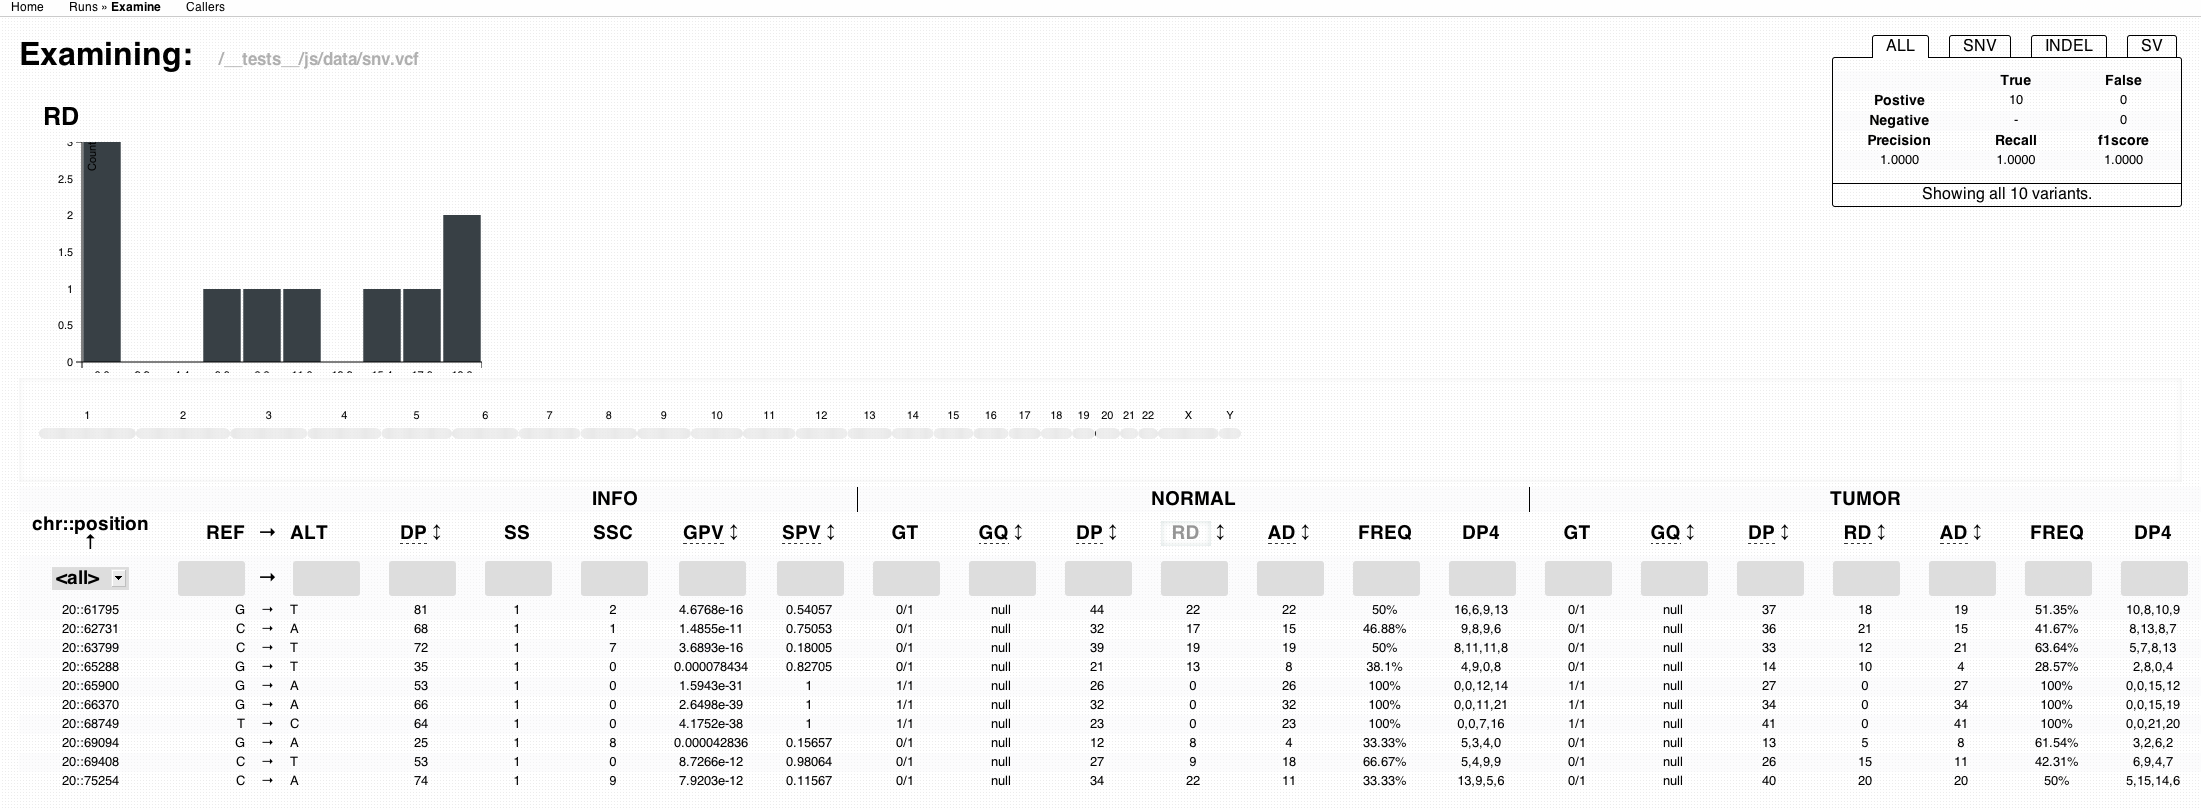
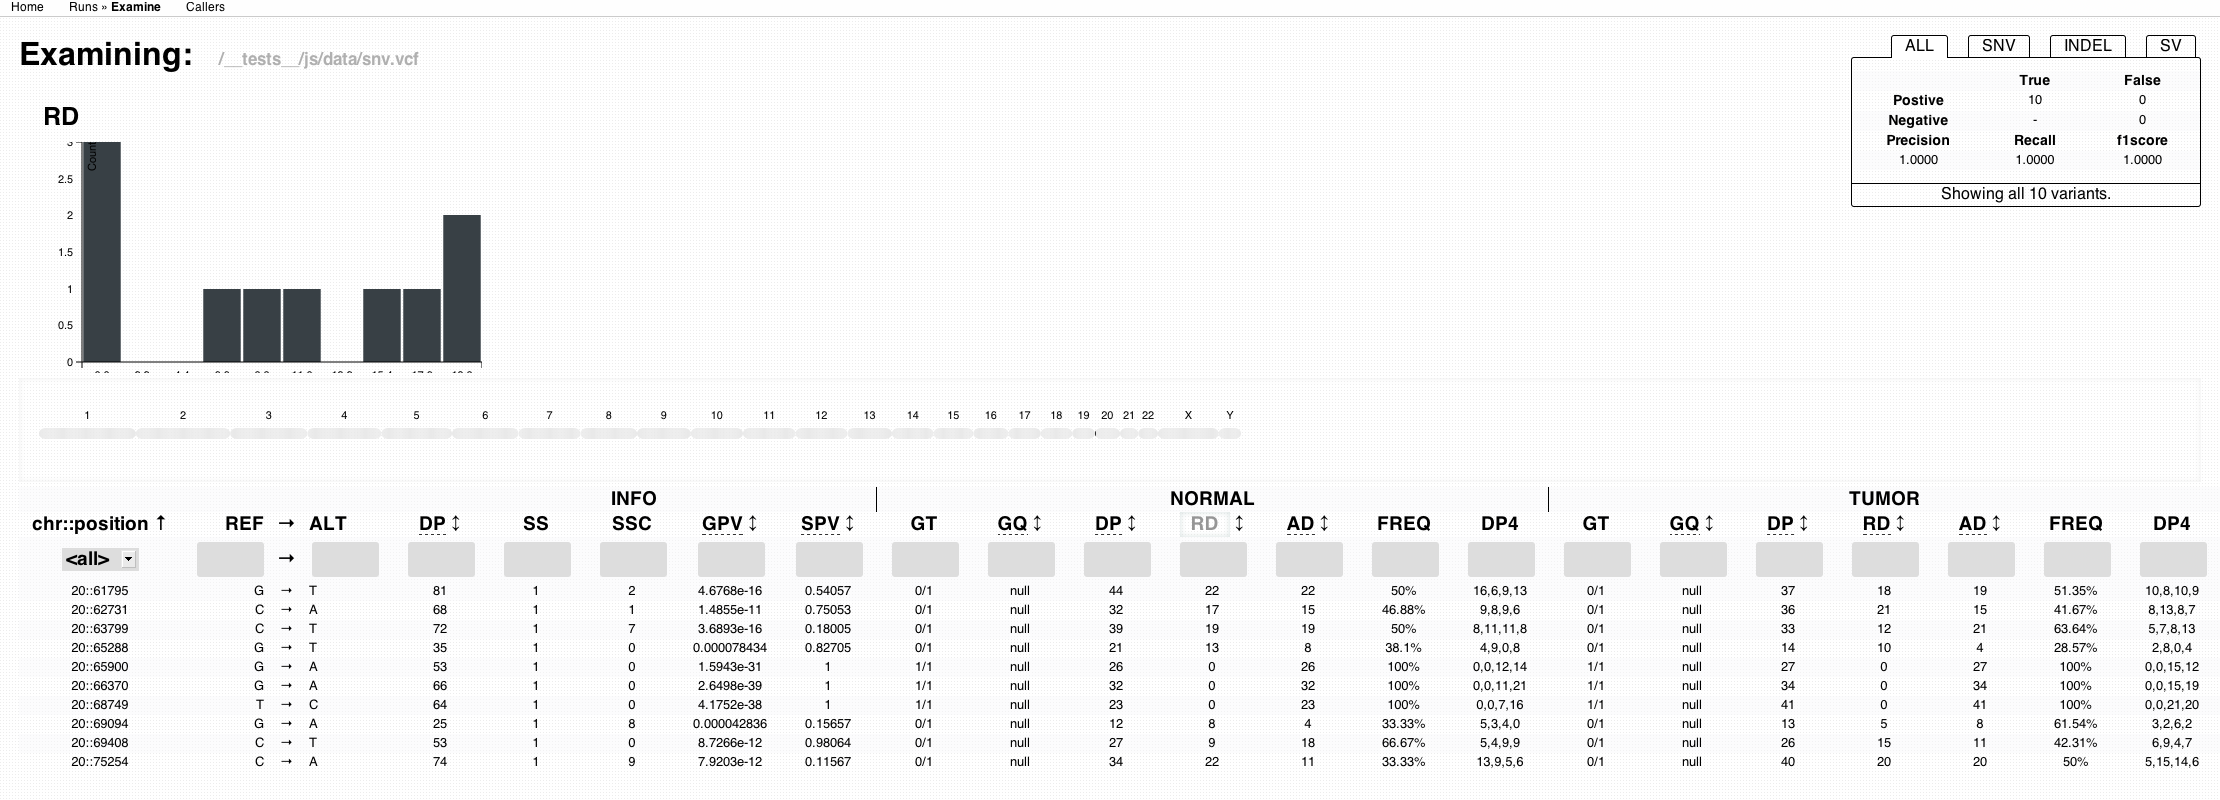
Applying no-wrap to all th elements, to include chr::pos

diff --git a/cycledash/static/css/examine.css b/cycledash/static/css/examine.css
@@ -49,6 +49,7 @@ th#range input:disabled {
 th {
     font-size: 19px;
     position: relative;
+    white-space: nowrap;
 }
 th.arrow, td.arrow {
     width: 20px;
@@ -69,9 +70,6 @@ th.ref, td.ref {
 th.alt, td.alt {
     padding-left: 0;
     text-align: left;
-}
-th.attr {
-    white-space: nowrap;
 }
 th.attr > span.chartable {
     cursor: pointer;
